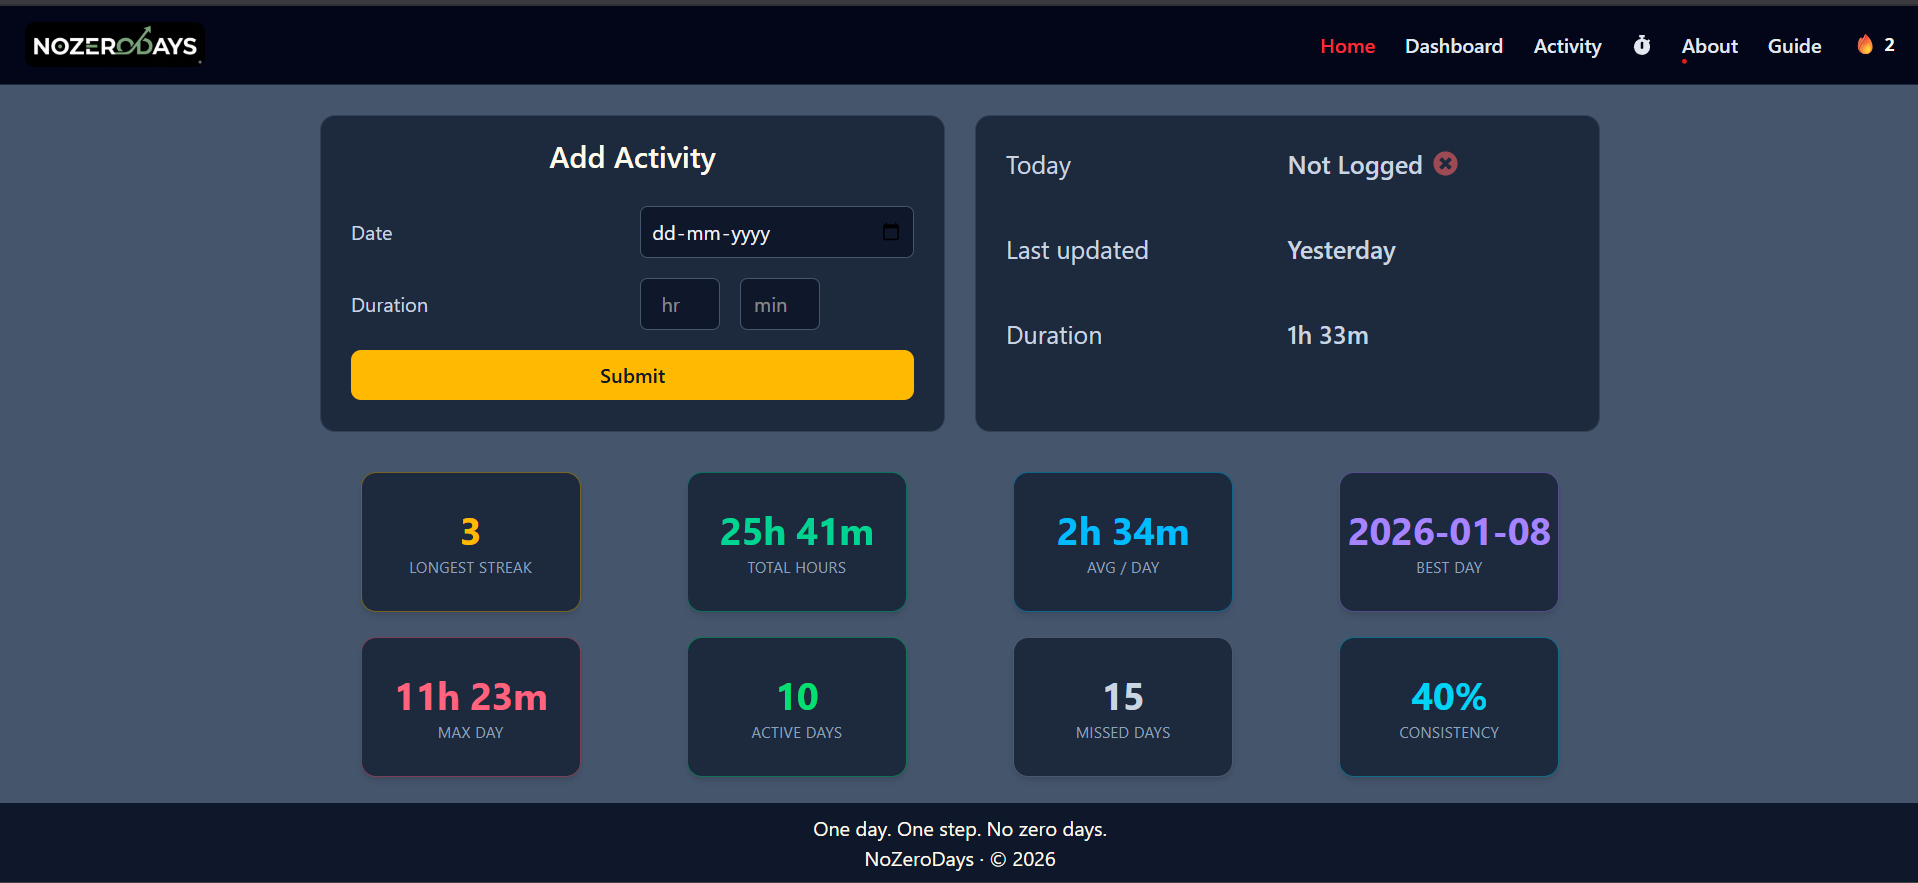
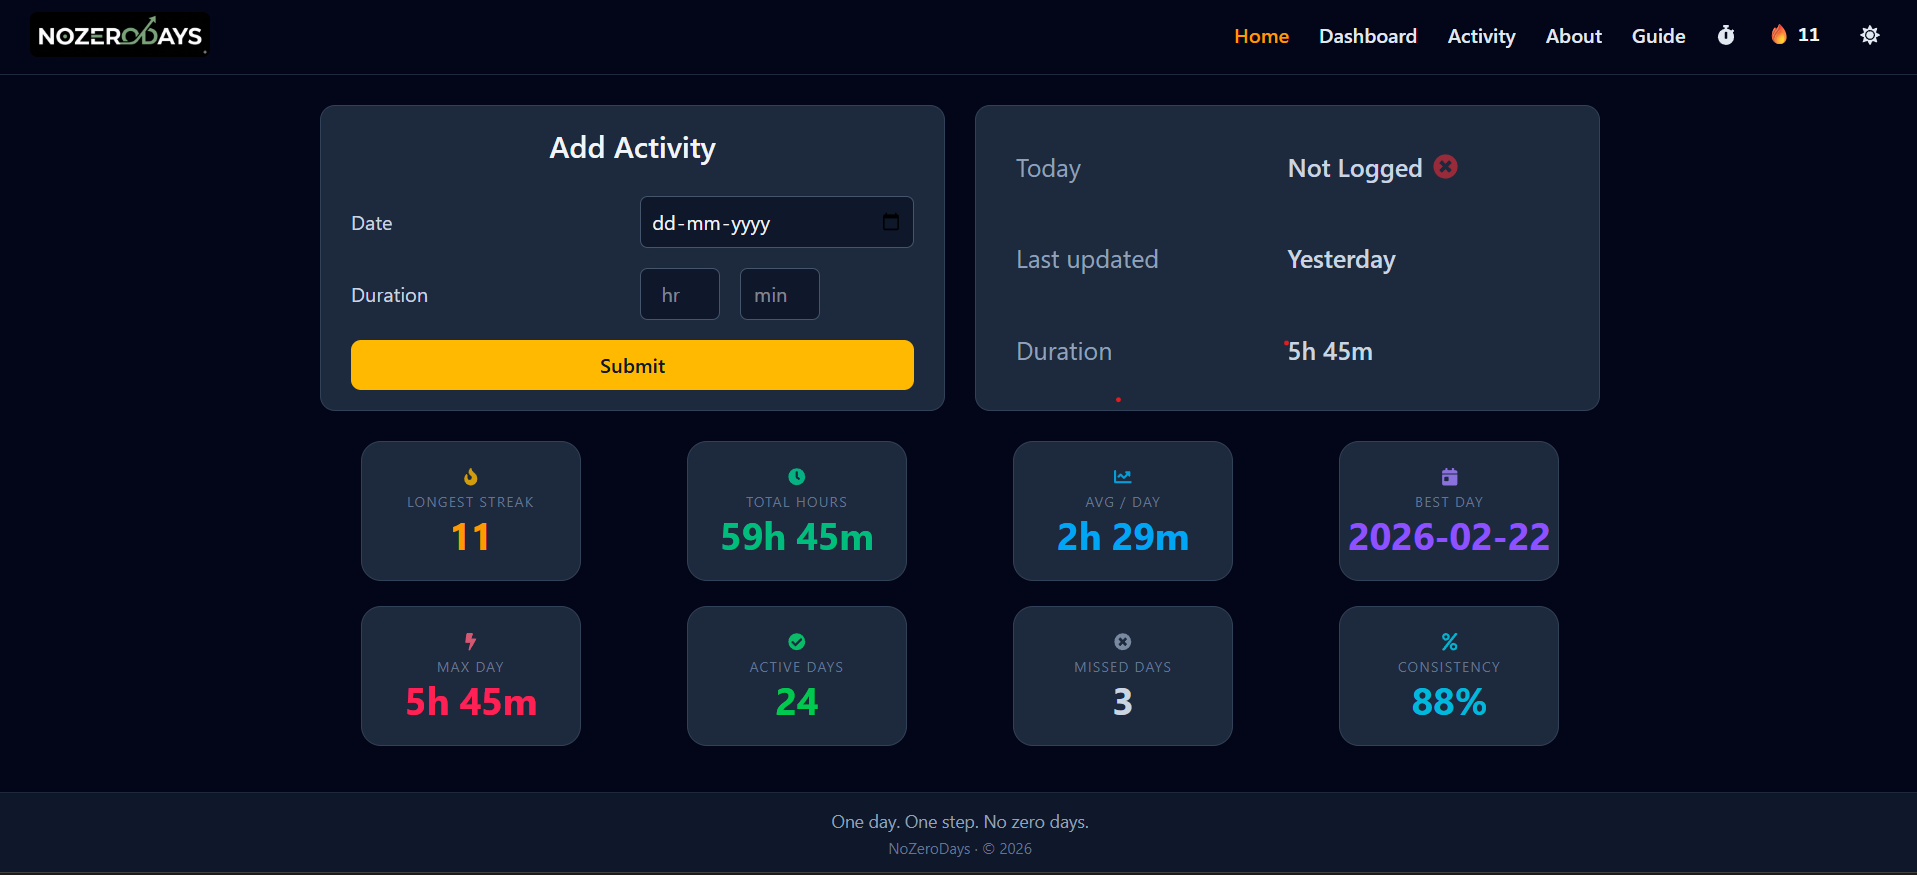
doc : update preview image in readme

diff --git a/src/components/Header.tsx b/src/components/Header.tsx
@@ -25,12 +25,15 @@ function Header({ streak, theme, toggleTheme }: HeaderProps) {
   return (
     <>
       {/* HEADER */}
-      <header className="
+      <header
+        className="
+     
         fixed top-0 left-0 w-full h-[9vh] z-50 font-semibold
         bg-slate-50 dark:bg-slate-950
         border-b border-slate-200 dark:border-slate-800
         shadow-sm dark:shadow-none 
-      ">
+      "
+      >
         <div className="flex items-center justify-between px-3 sm:px-6 h-full">
           <img
             src={theme === "dark" ? darkLogo : lightLogo}
@@ -39,24 +42,44 @@ function Header({ streak, theme, toggleTheme }: HeaderProps) {
 
           {/* Desktop Nav */}
           <div className="hidden md:flex items-center gap-6">
-            <nav className="
+            <nav
+              className="
               flex items-center gap-6
               text-slate-700 dark:text-slate-200
-            ">
-              <NavLink className="hover:text-amber-500 transition" to="/">Home</NavLink>
-              <NavLink className="hover:text-amber-500 transition" to="/dashboard">Dashboard</NavLink>
-              <NavLink className="hover:text-amber-500 transition" to="/activity">Activity</NavLink>
-              <NavLink className="hover:text-amber-500 transition" to="/about">About</NavLink>
-              <NavLink className="hover:text-amber-500 transition" to="/guide">Guide</NavLink>
+            "
+            >
+              <NavLink className="hover:text-amber-500 transition" to="/">
+                Home
+              </NavLink>
+              <NavLink
+                className="hover:text-amber-500 transition"
+                to="/dashboard"
+              >
+                Dashboard
+              </NavLink>
+              <NavLink
+                className="hover:text-amber-500 transition"
+                to="/activity"
+              >
+                Activity
+              </NavLink>
+              <NavLink className="hover:text-amber-500 transition" to="/about">
+                About
+              </NavLink>
+              <NavLink className="hover:text-amber-500 transition" to="/guide">
+                Guide
+              </NavLink>
               <NavLink className="hover:text-amber-500 transition" to="/timer">
                 <FaStopwatch />
               </NavLink>
             </nav>
 
-            <div className="
+            <div
+              className="
               flex items-center gap-1 font-mono
               text-slate-800 dark:text-slate-100
-            ">
+            "
+            >
               <span className="text-amber-400">🔥</span>
               <span>{streak}</span>
             </div>
@@ -80,7 +103,7 @@ function Header({ streak, theme, toggleTheme }: HeaderProps) {
               <span className="text-amber-400">🔥</span>
               <span>{streak}</span>
             </div>
-              <button
+            <button
               onClick={toggleTheme}
               className="
                 p-2 rounded-full
@@ -122,10 +145,12 @@ function Header({ streak, theme, toggleTheme }: HeaderProps) {
           ${open ? "translate-x-0" : "translate-x-full"}
         `}
       >
-        <div className="
+        <div
+          className="
           p-5 flex flex-col items-end gap-4
           text-slate-700 dark:text-slate-200
-        ">
+        "
+        >
           <button
             className="
               sm:hidden p-2 rounded-md
@@ -136,12 +161,44 @@ function Header({ streak, theme, toggleTheme }: HeaderProps) {
             <FaBars size={22} />
           </button>
 
-          <NavLink to="/" onClick={() => setOpen(false)} className="menu-link">Home <FaHome /></NavLink>
-          <NavLink to="/dashboard" onClick={() => setOpen(false)} className="menu-link">Dashboard <FaChartBar /></NavLink>
-          <NavLink to="/activity" onClick={() => setOpen(false)} className="menu-link">Activity <FaClipboard /></NavLink>
-          <NavLink to="/timer" onClick={() => setOpen(false)} className="menu-link">Timer <FaStopwatch /></NavLink>
-          <NavLink to="/about" onClick={() => setOpen(false)} className="menu-link">About <FaInfoCircle /></NavLink>
-          <NavLink to="/guide" onClick={() => setOpen(false)} className="menu-link">Guide <FaBookOpen /></NavLink>
+          <NavLink to="/" onClick={() => setOpen(false)} className="menu-link">
+            Home <FaHome />
+          </NavLink>
+          <NavLink
+            to="/dashboard"
+            onClick={() => setOpen(false)}
+            className="menu-link"
+          >
+            Dashboard <FaChartBar />
+          </NavLink>
+          <NavLink
+            to="/activity"
+            onClick={() => setOpen(false)}
+            className="menu-link"
+          >
+            Activity <FaClipboard />
+          </NavLink>
+          <NavLink
+            to="/timer"
+            onClick={() => setOpen(false)}
+            className="menu-link"
+          >
+            Timer <FaStopwatch />
+          </NavLink>
+          <NavLink
+            to="/about"
+            onClick={() => setOpen(false)}
+            className="menu-link"
+          >
+            About <FaInfoCircle />
+          </NavLink>
+          <NavLink
+            to="/guide"
+            onClick={() => setOpen(false)}
+            className="menu-link"
+          >
+            Guide <FaBookOpen />
+          </NavLink>
         </div>
       </aside>
     </>
